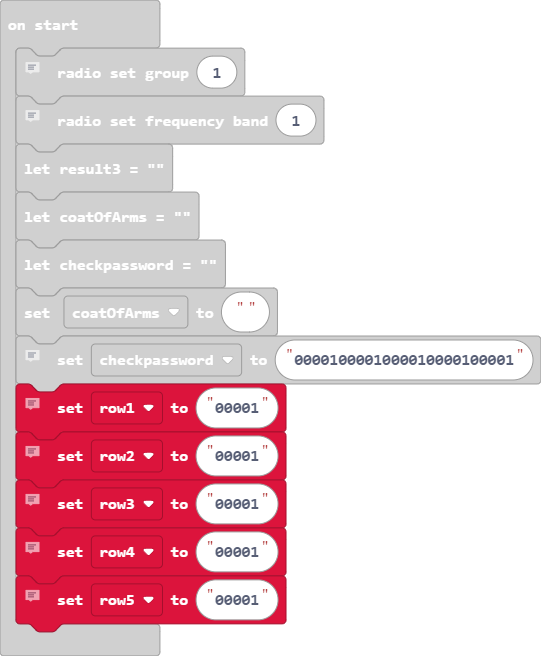
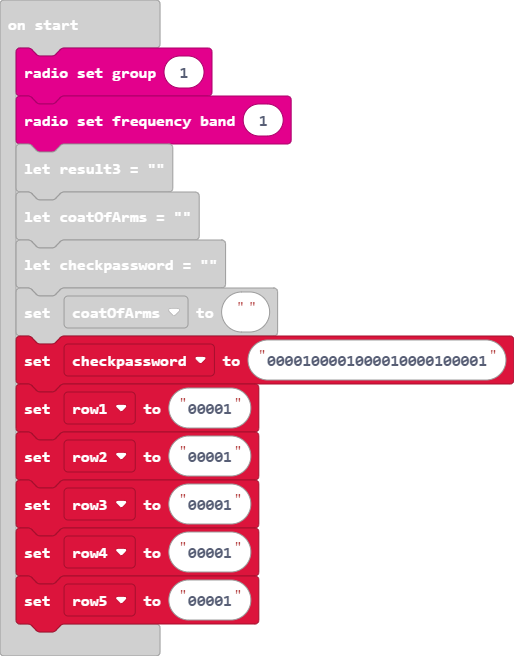
better comments

diff --git a/main.ts b/main.ts
@@ -220,23 +220,15 @@ let row4 = ""
 let row3 = ""
 let row2 = ""
 let row1 = ""
-// Set this to your group number
 radio.setGroup(1)
-// Set this to your group number
 radio.setFrequencyBand(1)
 let result3 = ""
 let coatOfArms = ""
 let checkpassword = ""
 coatOfArms = ""
-// Set your accepted coat of arms password here
 checkpassword = "0000100001000010000100001"
-// This is the first row of the coat of arms password
 row1 = "00001"
-// This is the second row of the coat of arms password
 row2 = "00001"
-// This is the third row of the coat of arms password
 row3 = "00001"
-// This is the fourth row of the coat of arms password
 row4 = "00001"
-// This is the fifth row of the coat of arms password
 row5 = "00001"
